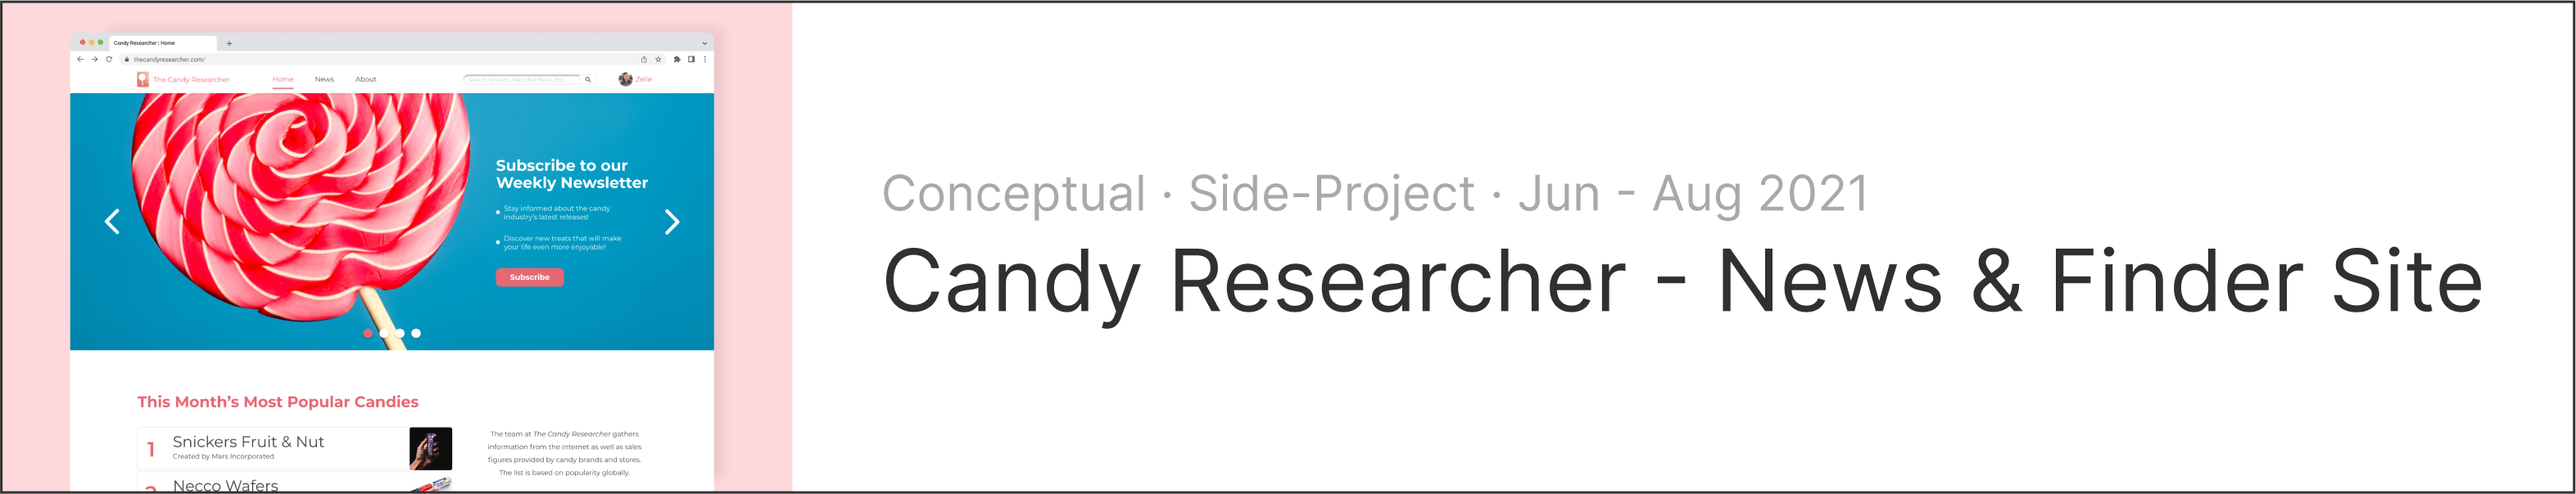
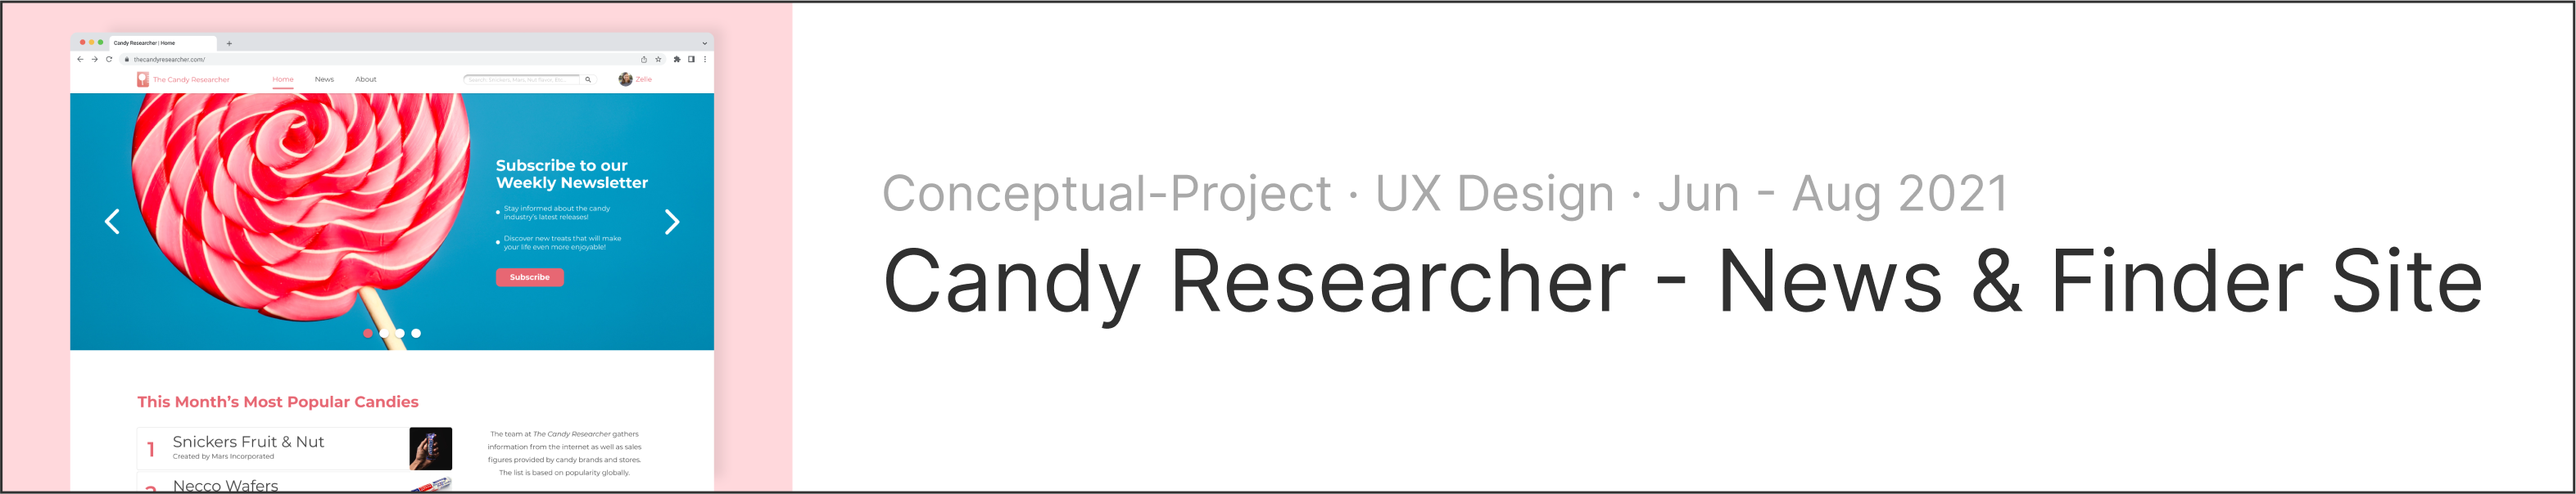
additions

Changed region(s): [[0.4362, 0.3576, 0.779, 0.447]]

diff --git a/index.html b/index.html
@@ -89,12 +89,28 @@
         </div>
 
         <div class="content">
+
+            <!-- amotions card -->
+            <!-- change outer div to <a> and have the correct href="./amotions.html" -->
+            <!-- Add the shrink class back -->
+            <!-- Add "Skill Learning Dashboard" as the title-->
+            <div>
+                <div class="card">
+                    <img src="img/universal/amotionsRawCover.png" alt="amotions cover image">
+                    <div class="container">
+                        <p class="quickFacts">Start-Up · Product Design · Apr - Sept 2022</p>
+                        <p class="cardTitle">Amotions - Case Study Coming Soon</p>
+                        <p class="cardDes">Creating a customizable dashboard that helps managers and their teams learn professional skills</p>
+                    </div>
+                </div>
+            </div>
+
             <!-- candy card -->
             <a href="./candy.html">
                 <div class="card shrink">
                     <img src="img/universal/candyRawCover.png" alt="candy researcher cover image">
                     <div class="container">
-                        <p class="quickFacts">Conceptual · Side-Project · Jun - Aug 2021</p>
+                        <p class="quickFacts">Conceptual-Project · UX Design · Jun - Aug 2021</p>
                         <p class="cardTitle">Candy Researcher - News & Finder Site</p>
                         <p class="cardDes">Helping redditors reunite with forgotten candy products while providing them with industry news</p>
                     </div>
@@ -106,7 +122,7 @@
                 <div class="card shrink">
                     <img src="img/universal/zivolveRawCover.png" alt="zivolve cover image">
                     <div class="container">
-                        <p class="quickFacts">Interaction Design · Internship · May - July 2022</p>
+                        <p class="quickFacts">Internship · Interaction Design · May - July 2022</p>
                         <p class="cardTitle">Zivolve By Ziggurat - Investment App </p>
                         <p class="cardDes">Equalizing the playing field by using AI to help investors make smart and informed decisions</p>
                     </div>
@@ -130,7 +146,7 @@
                 <div class="card shrink">
                     <img src="img/universal/zoomRawCover.png" alt="zoom cover image">
                     <div class="container">
-                        <p class="quickFacts">Conceptual · Side-Project · Mar 2021</p>
+                        <p class="quickFacts">Conceptual-Project · UX Design · Mar 2021</p>
                         <p class="cardTitle">Zoom Waiting Queue - Feature Addition</p>
                         <p class="cardDes">Designing a tolerable waiting room for attendees stuck in unbearably long office-hour queues</p>
                     </div>
